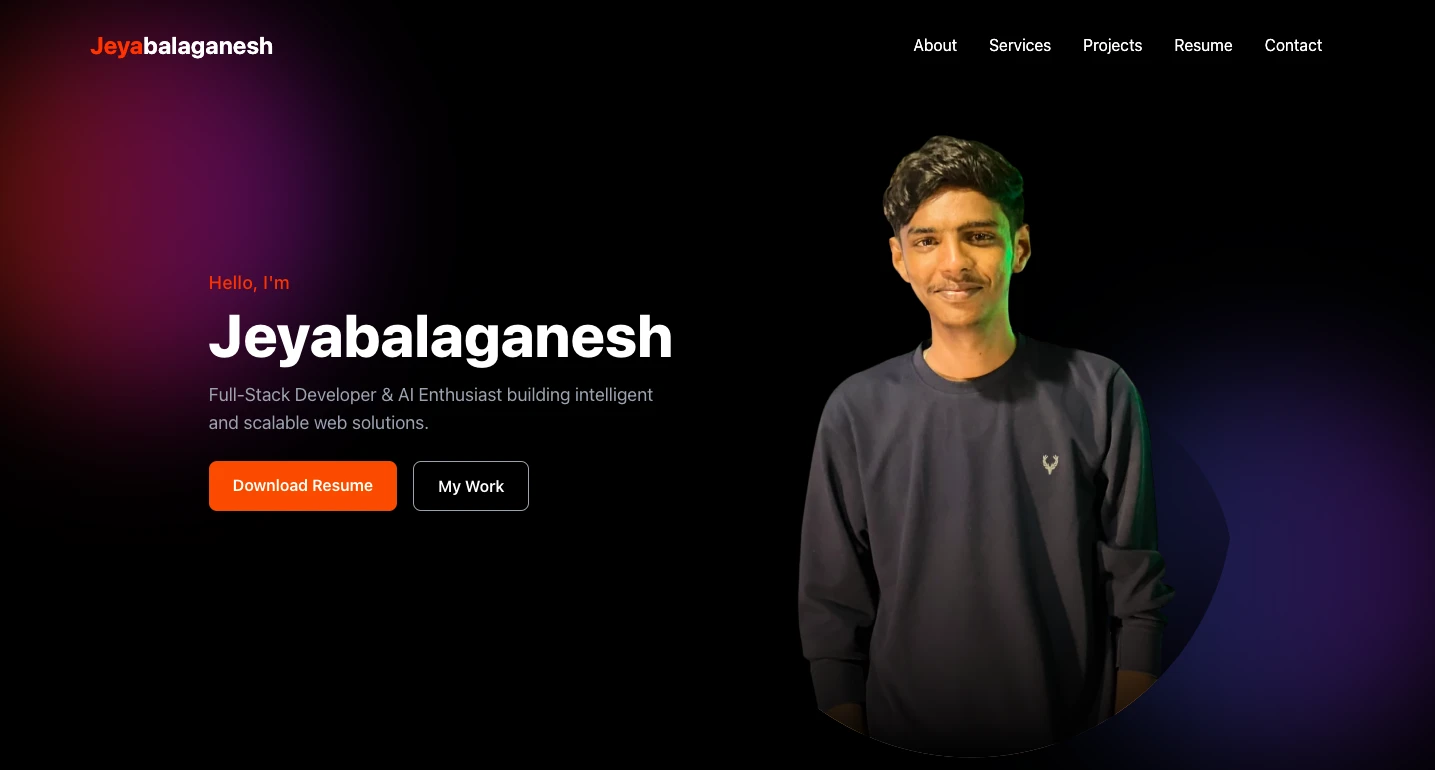
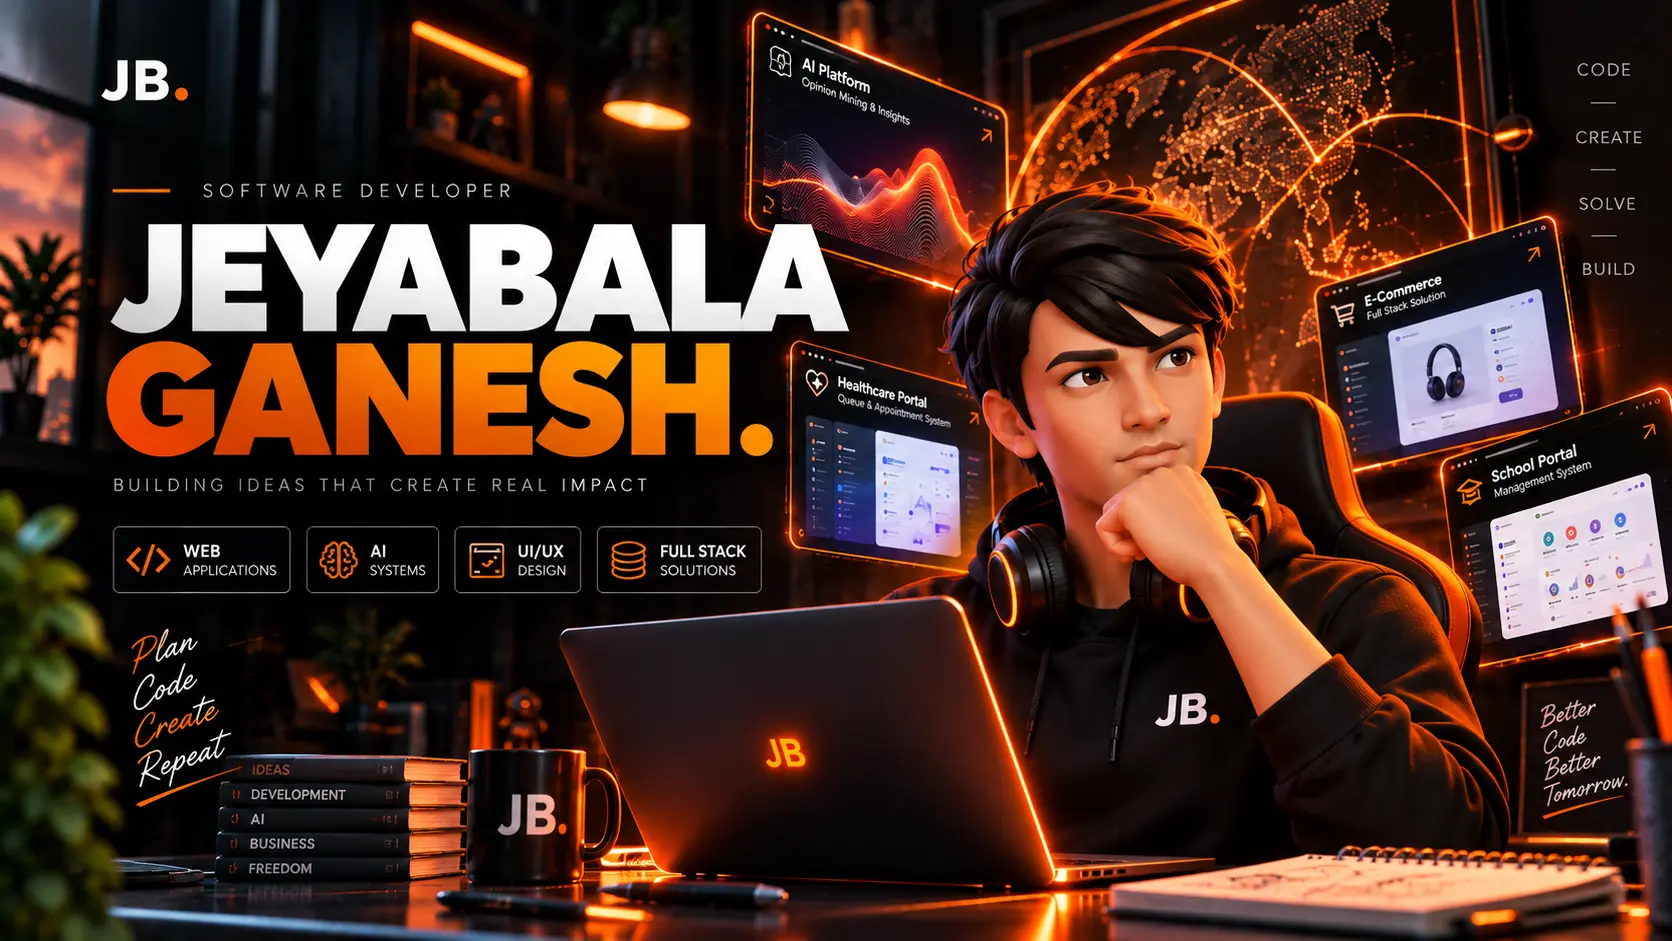
updated domain

diff --git a/src/pages/Hero.jsx b/src/pages/Hero.jsx
@@ -249,7 +249,7 @@ export default function Hero() {
             uppercase
           "
         >
-          JG
+          JB
           <span className="text-orange-500">
             .
           </span>
